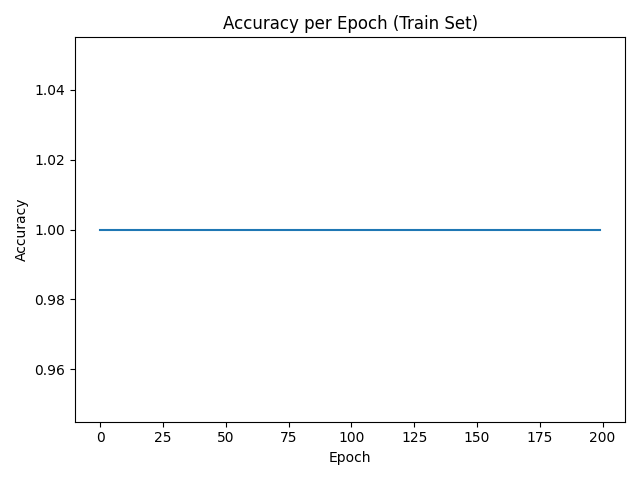
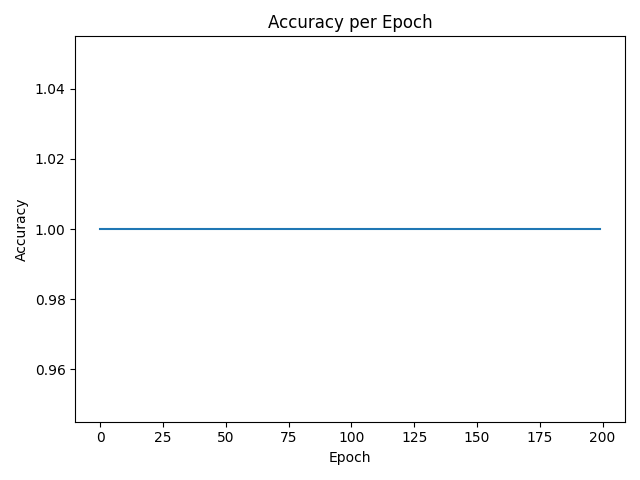
fix: remove unused variable, plot title fix

diff --git a/perceptron.py b/perceptron.py
@@ -1,144 +1,184 @@
-#Tugas - Single Layer Perceptron with Sigmoid Activation for Binary Classification on Iris Dataset
-#Andrian Danar Perdana (23/513040/PA/21917)
-#Andreandhiki Riyanta Putra (23/517511/PA/22191)
-#Daffa Indra Wibowo (23/518514/PA/22253)
-#Muhammad Argya Vityasy (23/522547/PA/22475)
-#Rayhan Firdaus Ardian (23/519095/PA/22279)
+# Tugas - Single Layer Perceptron with Sigmoid Activation for Binary Classification on Iris Dataset
+# Andrian Danar Perdana (23/513040/PA/21917)
+# Andreandhiki Riyanta Putra (23/517511/PA/22191)
+# Daffa Indra Wibowo (23/518514/PA/22253)
+# Muhammad Argya Vityasy (23/522547/PA/22475)
+# Rayhan Firdaus Ardian (23/519095/PA/22279)
 
-#Impor libarary yang dibutuhkan
-import numpy as np                      #aljabar linier dan operasi numerik
-import matplotlib.pyplot as plt         #visualisasi data
-import pandas as pd                     #manipulasi data
-from sklearn.datasets import load_iris  #dataset iris
+# Impor libarary yang dibutuhkan
+import numpy as np  # aljabar linier dan operasi numerik
+import matplotlib.pyplot as plt  # visualisasi data
+import pandas as pd  # manipulasi data
+from sklearn.datasets import load_iris  # dataset iris
 
-#Hyperparameters
-RANDOM_SEED = 42        #untuk memastikan hasil yang konsisten
-LEARNING_RATE = 0.1     #menentukan learning rate
-EPOCHS = 200            #jumlah iterasi pelatihan
-TEST_RATIO = 0.2        #proporsi data yang digunakan untuk pengujian (80% pelatihan, 20% pengujian)
+# Hyperparameters
+RANDOM_SEED = 42  # untuk memastikan hasil yang konsisten
+LEARNING_RATE = 0.1  # menentukan learning rate
+EPOCHS = 200  # jumlah iterasi pelatihan
+TEST_RATIO = (
+    0.2  # proporsi data yang digunakan untuk pengujian (80% pelatihan, 20% pengujian)
+)
 
-#Load Iris Dataset
+# Load Iris Dataset
 iris = load_iris()
-X = iris["data"]        #fitur
-y = iris["target"]      #label
+X = iris["data"]  # fitur
+y = iris["target"]  # label
 
-#hanya gunakan kelas 0 dan 1 untuk klasifikasi biner (seperti di gsheets)
-mask = y < 2   
+# hanya gunakan kelas 0 dan 1 untuk klasifikasi biner (seperti di gsheets)
+mask = y < 2
 X = X[mask]
 y = y[mask]
 
-#Train-test split
-rng = np.random.default_rng(RANDOM_SEED)    #random number generator
-perm = rng.permutation(len(y))              #acak urutan data
+# Train-test split
+rng = np.random.default_rng(RANDOM_SEED)  # random number generator
+perm = rng.permutation(len(y))  # acak urutan data
 X = X[perm]
 y = y[perm]
 
 n = len(y)
 n_train = int((1 - TEST_RATIO) * n)
-#bagi data menjadi data pelatihan dan pengujian
-X_train, X_test = X[:n_train], X[n_train:]  
+# bagi data menjadi data pelatihan dan pengujian
+X_train, X_test = X[:n_train], X[n_train:]
 y_train, y_test = y[:n_train], y[n_train:]
 
-#Standardisasi fitur (mean=0, std=1)
-mean = X_train.mean(axis=0, keepdims=True)      #hitung mean dari data pelatihan
-std = X_train.std(axis=0, keepdims=True) + 1e-8 #hitung std dari data pelatihan, tambahkan epsilon untuk menghindari pembagian dengan nol
-X_train_std = (X_train - mean) / std            #standarisasi data pelatihan
-X_test_std = (X_test - mean) / std              #standarisasi data pengujian
+# Standardisasi fitur (mean=0, std=1)
+mean = X_train.mean(axis=0, keepdims=True)  # hitung mean dari data pelatihan
+std = (
+    X_train.std(axis=0, keepdims=True) + 1e-8
+)  # hitung std dari data pelatihan, tambahkan epsilon untuk menghindari pembagian dengan nol
+X_train_std = (X_train - mean) / std  # standarisasi data pelatihan
+X_test_std = (X_test - mean) / std  # standarisasi data pengujian
 
-#preview data
+# preview data
 df_preview = pd.DataFrame(
     np.hstack([X_train_std[:8], y_train[:8, None]]),
-    columns=["sepal length", "sepal width", "petal length", "petal width", "label"]
+    columns=["sepal length", "sepal width", "petal length", "petal width", "label"],
 )
 
-print(df_preview.to_string(index=False)) #print first 8 deret pertama data pelatihan
+print(df_preview.to_string(index=False))  # print first 8 deret pertama data pelatihan
 
-#Sigmoid function
-def sigmoid(z):                                 
-    z = np.clip(z, -500, 500)               #potong nilai z untuk menghindari overflow
-    return 1.0 / (1.0 + np.exp(-z))         #rumus matematis sigmoid (1 / (1 + e^(-z)))
 
-#Binary cross-entropy loss
-def binary_cross_entropy(y_true, y_pred, eps=1e-12):                                #eps = 1e-12 untuk menghindari log(0)      
-    y_pred = np.clip(y_pred, eps, 1 - eps)                                          # avoid log(0) by clipping predictions
-    return -(y_true * np.log(y_pred) + (1 - y_true) * np.log(1 - y_pred)).mean()    #rumus matematis binary cross-entropy loss (-(y*log(y_pred) + (1-y)*log(1-y_pred)))
+# Sigmoid function
+def sigmoid(z):
+    z = np.clip(z, -500, 500)  # potong nilai z untuk menghindari overflow
+    return 1.0 / (1.0 + np.exp(-z))  # rumus matematis sigmoid (1 / (1 + e^(-z)))
 
-#Single Layer Perceptron with Sigmoid Activation
+
+# Binary cross-entropy loss
+def binary_cross_entropy(
+    y_true, y_pred, eps=1e-12
+):  # eps = 1e-12 untuk menghindari log(0)
+    y_pred = np.clip(y_pred, eps, 1 - eps)  # avoid log(0) by clipping predictions
+    return -(
+        y_true * np.log(y_pred) + (1 - y_true) * np.log(1 - y_pred)
+    ).mean()  # rumus matematis binary cross-entropy loss (-(y*log(y_pred) + (1-y)*log(1-y_pred)))
+
+
+# Single Layer Perceptron with Sigmoid Activation
 class SigmoidPerceptron:
-    def __init__(self, n_features, learning_rate=0.1, seed = None):                 #self = instance of the class, n_features = jumlah fitur input, learning_rate = laju pembelajaran, seed = untuk inisialisasi bobot acak
-        self.rng = np.random.default_rng(seed)                                      #random number generator   
-        self.weights = self.rng.normal(loc=0.0, scale=0.01, size=(n_features,))     #inisialisasi bobot dengan distribusi normal (mean=0, std=0.01)
-        self.bias = 0.0                                                             #inisialisasi bias dengan nol 
-        self.learning_rate = learning_rate                                          #inisialiasi learning rate       
-    
-    #fungsi untuk memprediksi probabilitas
+    def __init__(
+        self, n_features, learning_rate=0.1, seed=None
+    ):  # self = instance of the class, n_features = jumlah fitur input, learning_rate = laju pembelajaran, seed = untuk inisialisasi bobot acak
+        self.rng = np.random.default_rng(seed)  # random number generator
+        self.weights = self.rng.normal(
+            loc=0.0, scale=0.01, size=(n_features,)
+        )  # inisialisasi bobot dengan distribusi normal (mean=0, std=0.01)
+        self.bias = 0.0  # inisialisasi bias dengan nol
+        self.learning_rate = learning_rate  # inisialiasi learning rate
+
+    # fungsi untuk memprediksi probabilitas
     def predict_proba(self, X):
-        return sigmoid(X @ self.weights + self.bias) #hitung z = Xw + b, lalu aplikasikan fungsi sigmoid
-    
-    #fungsi untuk memprediksi kelas biner
-    def predict(self, X, threshold=0.5):                            #threshold default = 0.5
-        return (self.predict_proba(X) >= threshold).astype(int)     #jika probabilitas >= threshold, kelas = 1, else kelas = 0
-    
-    #fungsi untuk melatih model
-    def fit(self, X, y, epochs=100):                                #X = fitur input, y = label target, epochs = jumlah iterasi pelatihan           
-        m, n = X.shape                                              #m = jumlah sampel, n = jumlah fitur
-        history = {"loss": [], "accuracy": []}                      #history untuk menyimpan riwayat loss dan akurasi    
+        return sigmoid(
+            X @ self.weights + self.bias
+        )  # hitung z = Xw + b, lalu aplikasikan fungsi sigmoid
 
-        #training loop
-        for epoch in range(epochs):
-            #forward pass (prediksi)
-            y_hat = self.predict_proba(X)                           #prediksi probabilitas  
+    # fungsi untuk memprediksi kelas biner
+    def predict(self, X, threshold=0.5):  # threshold default = 0.5
+        return (self.predict_proba(X) >= threshold).astype(
+            int
+        )  # jika probabilitas >= threshold, kelas = 1, else kelas = 0
 
-            #loss dan akurasi
-            loss = binary_cross_entropy(y, y_hat)                   #hitung binary cross-entropy loss
-            accuracy = ((y_hat >= 0.5).astype(int) == y).mean()     #hitung akurasi
+    # fungsi untuk melatih model
+    def fit(
+        self, X, y, epochs=100
+    ):  # X = fitur input, y = label target, epochs = jumlah iterasi pelatihan
+        m, _ = X.shape  # m = jumlah sampel, n = jumlah fitur
+        history = {
+            "loss": [],
+            "accuracy": [],
+        }  # history untuk menyimpan riwayat loss dan akurasi
 
-            #backward pass (gradient descent)
-            error = y_hat - y                                       #hitung error (y_hat - y)   
-            grad_w = (X.T @ error) / m                              #hitung gradien bobot (X^T * error) / m      
-            grad_b = error.mean()                                   #hitung gradien bias (mean error)   
+        # training loop
+        for _ in range(epochs):
+            # forward pass (prediksi)
+            y_hat = self.predict_proba(X)  # prediksi probabilitas
 
-            #update bobot dan bias
-            self.weights -= self.learning_rate * grad_w             #update bobot (w = w - learning_rate * grad_w)
-            self.bias -= self.learning_rate * grad_b                #update bias (b = b - learning_rate * grad_b)
+            # loss dan akurasi
+            loss = binary_cross_entropy(y, y_hat)  # hitung binary cross-entropy loss
+            accuracy = ((y_hat >= 0.5).astype(int) == y).mean()  # hitung akurasi
 
-            #simpan riwayat loss dan akurasi
-            history["loss"].append(loss)                           
+            # backward pass (gradient descent)
+            error = y_hat - y  # hitung error (y_hat - y)
+            grad_w = (X.T @ error) / m  # hitung gradien bobot (X^T * error) / m
+            grad_b = error.mean()  # hitung gradien bias (mean error)
+
+            # update bobot dan bias
+            self.weights -= (
+                self.learning_rate * grad_w
+            )  # update bobot (w = w - learning_rate * grad_w)
+            self.bias -= (
+                self.learning_rate * grad_b
+            )  # update bias (b = b - learning_rate * grad_b)
+
+            # simpan riwayat loss dan akurasi
+            history["loss"].append(loss)
             history["accuracy"].append(accuracy)
 
-        return history                                              #kembalikan riwayat loss dan akurasi
-    
-#inisialisasi model
-model = SigmoidPerceptron(n_features=X_train_std.shape[1], learning_rate=LEARNING_RATE, seed=RANDOM_SEED)       
+        return history  # kembalikan riwayat loss dan akurasi
 
-#latih model
+
+# inisialisasi model
+model = SigmoidPerceptron(
+    n_features=X_train_std.shape[1], learning_rate=LEARNING_RATE, seed=RANDOM_SEED
+)
+
+# latih model
 history = model.fit(X_train_std, y_train, epochs=EPOCHS)
 
-#evaluasi model pada data pengujian
-test_proba = model.predict_proba(X_test_std)                        #prediksi probabilitas pada data pengujian  
-test_predictions = (test_proba >= 0.5).astype(int)                  #prediksi kelas biner pada data pengujian (threshold=0.5)
-test_accuracy = (test_predictions == y_test).mean()                 #hitung akurasi pada data pengujian
+# evaluasi model pada data pengujian
+test_proba = model.predict_proba(
+    X_test_std
+)  # prediksi probabilitas pada data pengujian
+test_predictions = (test_proba >= 0.5).astype(
+    int
+)  # prediksi kelas biner pada data pengujian (threshold=0.5)
+test_accuracy = (
+    test_predictions == y_test
+).mean()  # hitung akurasi pada data pengujian
 
-print(f"Final training accuracy: {history['accuracy'][-1]:.4f}")    #print akurasi akhir pada data pelatihan
-print(f"Test accuracy: {test_accuracy:.4f}")                        #print akurasi pada data pengujian
+print(
+    f"Final training accuracy: {history['accuracy'][-1]:.4f}"
+)  # print akurasi akhir pada data pelatihan
+print(f"Test accuracy: {test_accuracy:.4f}")  # print akurasi pada data pengujian
 
-#plot training history
-#loss per epoch
+# plot training history
+# loss per epoch
 plt.figure()
-plt.plot(history["loss"], label="Loss")             
-plt.title("Binary Cross-Entropy Loss per Epoch (Train Set)")
+plt.plot(history["loss"], label="Loss")
+plt.title("Binary Cross-Entropy Loss per Epoch")
 plt.xlabel("Epoch")
 plt.ylabel("Loss")
 plt.tight_layout()
-plt.savefig("loss_per_epoch.png")                                   #simpan plot sebagai file PNG
+plt.savefig("loss_per_epoch.png")  # simpan plot sebagai file PNG
 plt.show()
 
-#akurasi per epoch
+# akurasi per epoch
 plt.figure()
 plt.plot(history["accuracy"], label="Accuracy")
-plt.title("Accuracy per Epoch (Train Set)")
+plt.title("Accuracy per Epoch")
 plt.xlabel("Epoch")
 plt.ylabel("Accuracy")
 plt.tight_layout()
-plt.savefig("accuracy_per_epoch.png")                               #simpan plot sebagai file PNG  
+plt.savefig("accuracy_per_epoch.png")  # simpan plot sebagai file PNG
 plt.show()
+
